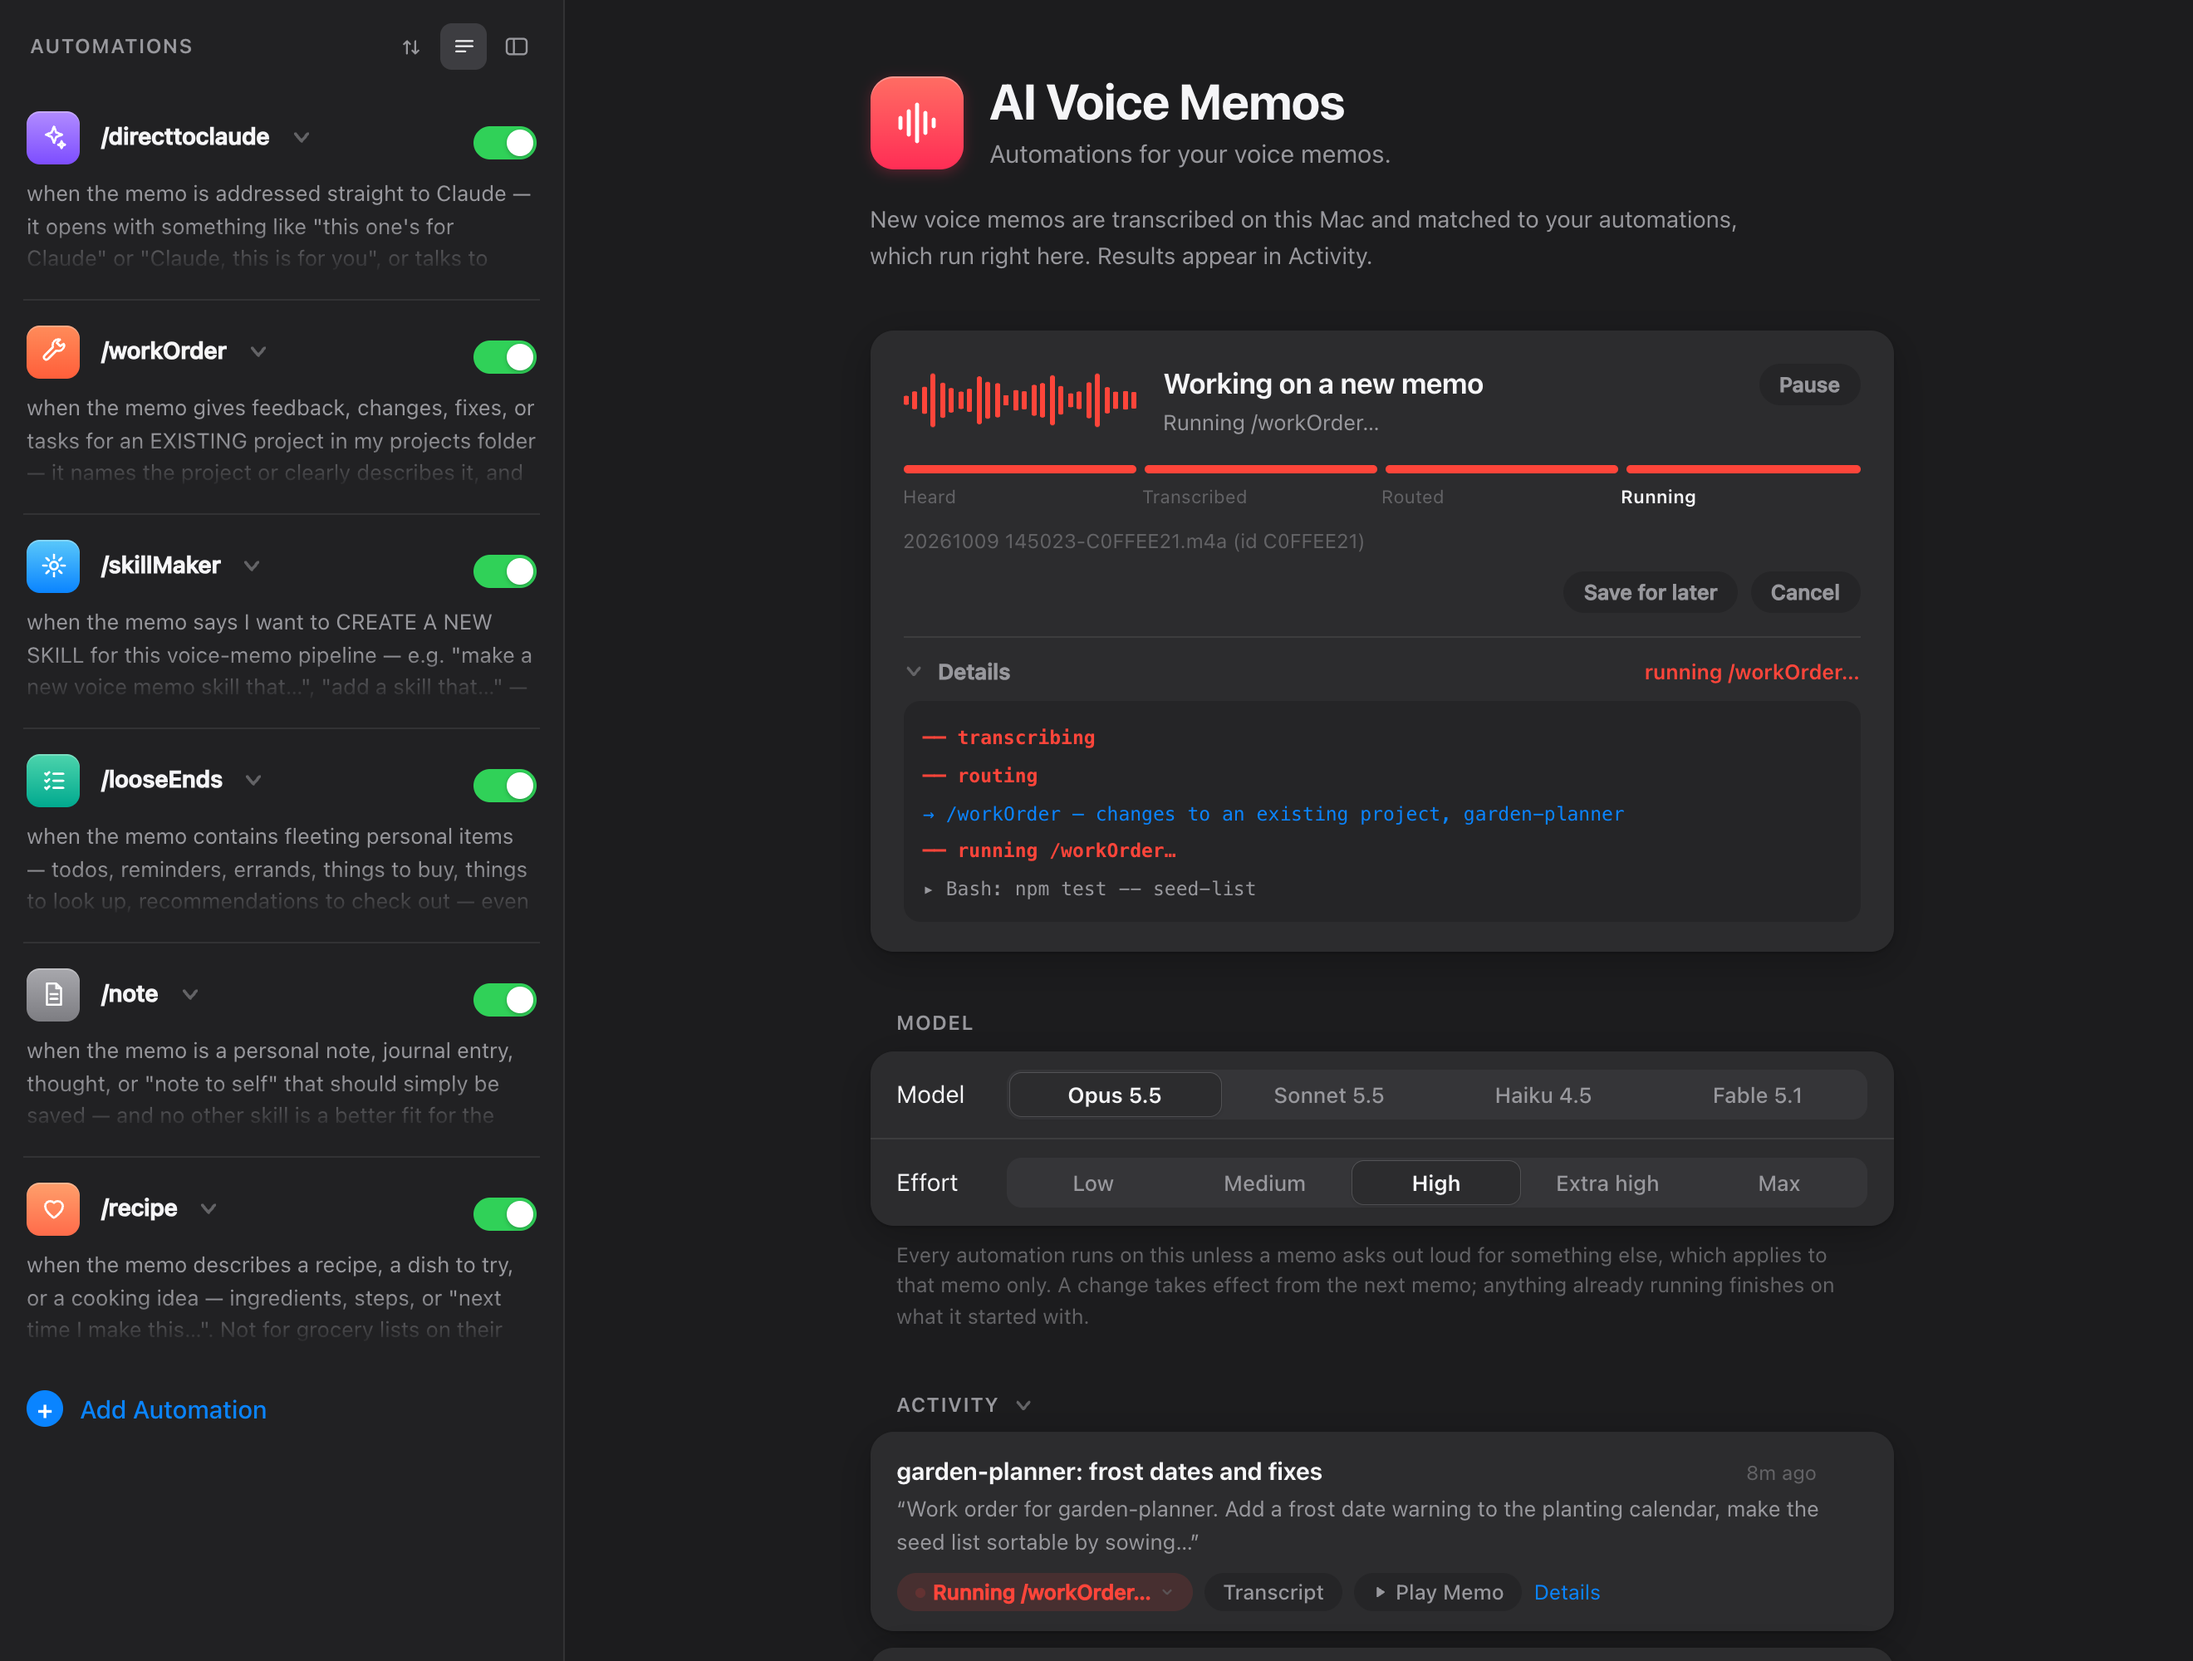
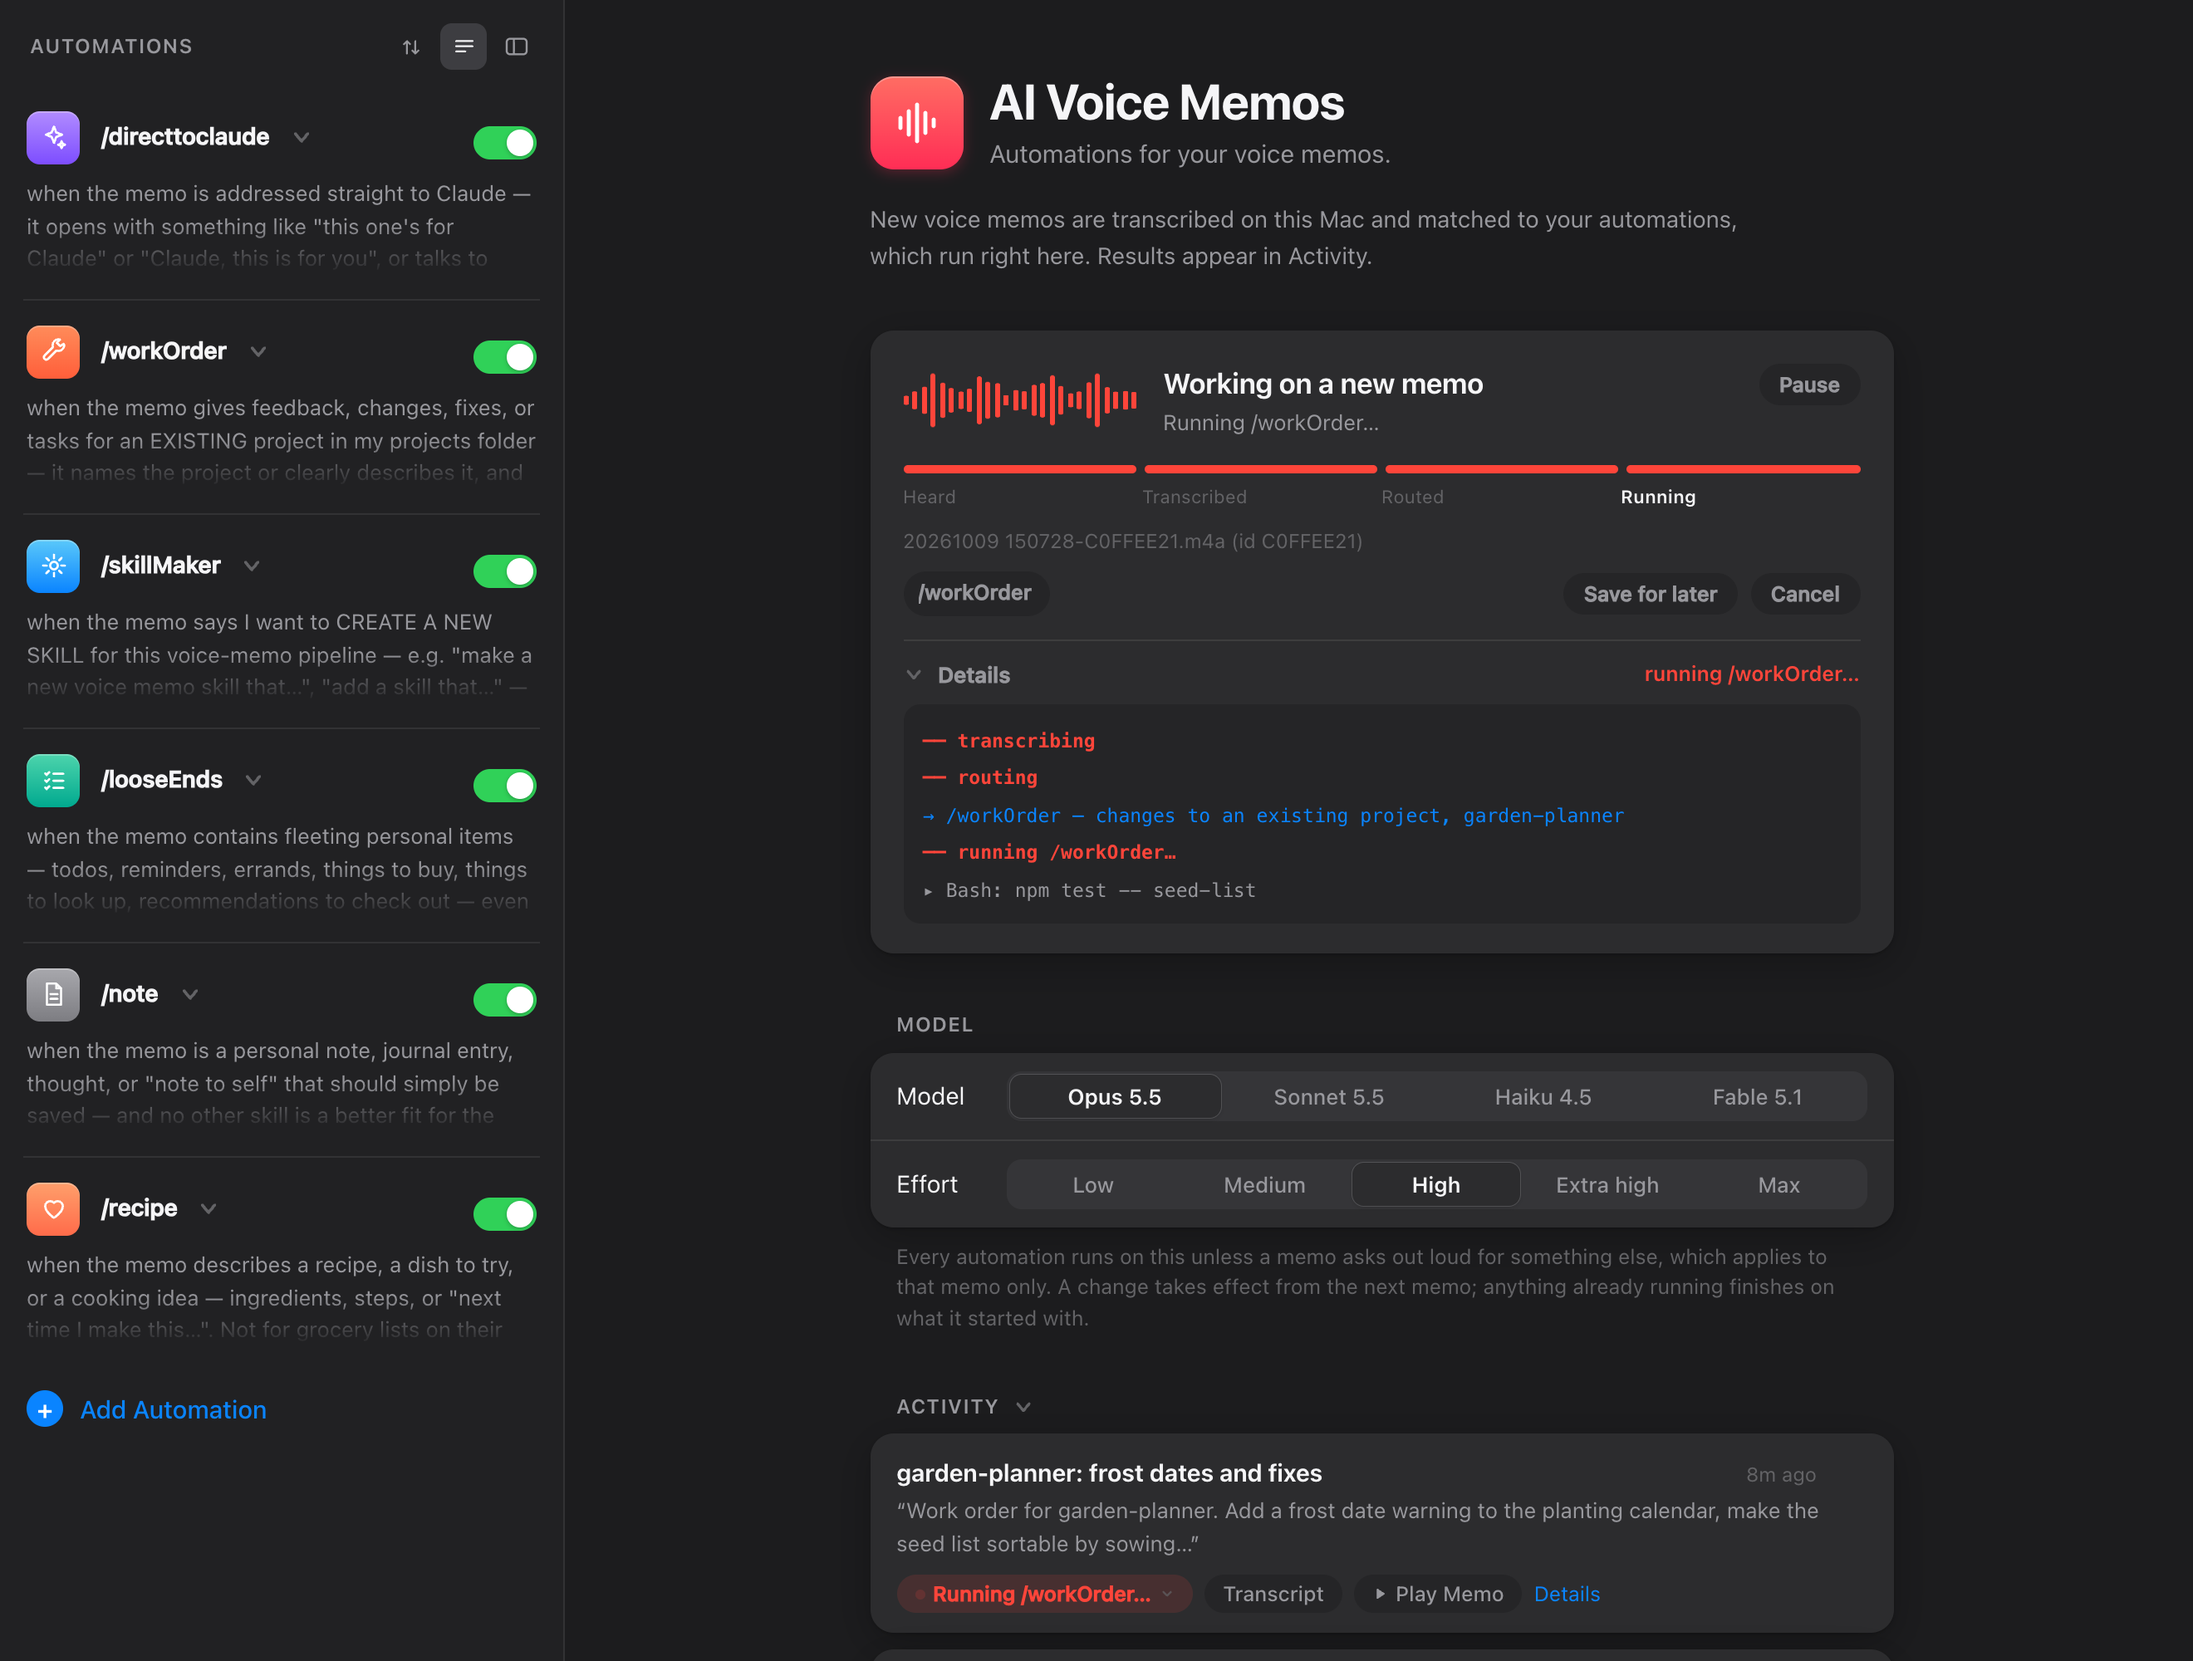
Configurator: route chips name the Mac only on two-Mac setups; phone-tab leftovers removed
The live card on a single Mac said "/workOrder → Mac mini"; it now shows
just the skill. Overview screenshots retaken.

diff --git a/configurator/web/index.html b/configurator/web/index.html
@@ -344,7 +344,7 @@
   }
   .btn-cancel:hover{color:var(--label)}
 
-  /* The user's controls: cancel / save for later / pause, and the saved list */
+  /* the user's controls: cancel / save for later / pause, and the saved list */
   .memo-ctl{display:flex;gap:8px;margin-top:12px;flex-wrap:wrap}
   .pause-btn{flex:none;align-self:flex-start;margin-left:8px}
   .parked{margin-top:14px;border-top:1px solid var(--track-off);padding-top:10px}
@@ -624,8 +624,6 @@
 </button>
 <div class="wrap">
 
-  <!-- tabs: Voice Memos | Phone (Phone tab: web/phone.js, configurator/phone.py).
-       server.py strips everything between the PHONE markers when ~/services/switchboard is absent. -->
   
 
   <div id="vmPanel">
@@ -725,7 +723,6 @@
     <span id="footNote" data-multi="Runs on your own Mac mini and MacBook. Recordings and transcripts stay on your devices.">Runs on your own Mac. Recordings and transcripts stay on your devices.</span>
   </div>
   </div><!-- /vmPanel -->
-  <div id="phonePanel"></div>
 </div>
 </main>
 </div>
@@ -770,6 +767,7 @@ const EXPANDED = new Set();    // rule indexes whose condition stays fully expan
 let SORT = localStorage.getItem('vma.skillSort') || 'custom';  // custom | alpha | recent
 let LAST_RUN = {};             // skill -> epoch ms of most recent run (from Activity)
 let HOSTS = {};                // skill -> "mini" | "laptop" (which machine runs it)
+let MULTI = false;             // two-machine setup (a role file exists): show which Mac runs what
 let ROLE = '';                 // "mini" when this configurator is the Mac mini's
 
 // ---------- Mac mini / MacBook ----------
@@ -814,6 +812,8 @@ function miniDoing(stage){
   return 'Working on a memo';
 }
 function routeChips(routes){
+  // on a single Mac there is only one place a skill can run, so no host label
+  if (!MULTI) return (routes||[]).map(r=>`<span class="run-chip"><span>${esc(r.skill)}</span></span>`).join('');
   return (routes||[]).map(r=>
     `<span class="run-chip" title="${esc(r.skill)} runs on your ${HOST_NAME[r.host]}">${hostIcon(r.host, 14)}<span>${esc(r.skill)} → ${HOST_NAME[r.host]}</span></span>`).join('');
 }
@@ -1019,6 +1019,7 @@ async function refreshStatus(){
   card.classList.toggle('idle', !running);
   card.classList.toggle('processing', running && processing);
   ROLE = s.role || ROLE;
+  MULTI = !!s.multi_machine;
   if (s.multi_machine){   // two-machine setup (a role file exists): use the Mac mini / MacBook wording
     for (const id of ['lede','footNote']){ const el = $(id); if (el && el.dataset.multi && el.textContent !== el.dataset.multi) el.textContent = el.dataset.multi; }
   }
@@ -1104,7 +1105,7 @@ async function refreshLive(){
   if (!lv.active){ wrap.classList.remove('on'); return; }
   wrap.classList.add('on');
   $('liveStage').textContent = lv.stage || '';
-  const rk = JSON.stringify(lv.routes||[]);
+  const rk = JSON.stringify([MULTI, lv.routes||[]]);
   if ($('stepsRoutes').dataset.k !== rk){ $('stepsRoutes').dataset.k = rk; $('stepsRoutes').innerHTML = routeChips(lv.routes); }
   const con = $('liveConsole');
   if (lv.memo_id !== liveMemoId || (lv.events||[]).length < liveCount){
@@ -1950,8 +1951,7 @@ async function boot(){
   await refreshStatus();
   await refreshActivity();
   await refreshModel();
-  // poll only the visible tab (window.VMA_TAB is set by phone.js)
-  const vmVisible = () => window.VMA_TAB !== 'phone';
+  const vmVisible = () => true;   // one tab
   setInterval(()=>{ if (vmVisible()) refreshStatus(); }, 2000);
   setInterval(()=>{ if (vmVisible()) refreshActivity(); }, 4000);
   setInterval(()=>{ if (vmVisible()) refreshModel(); }, 5000);   // picks up menu-bar changes
